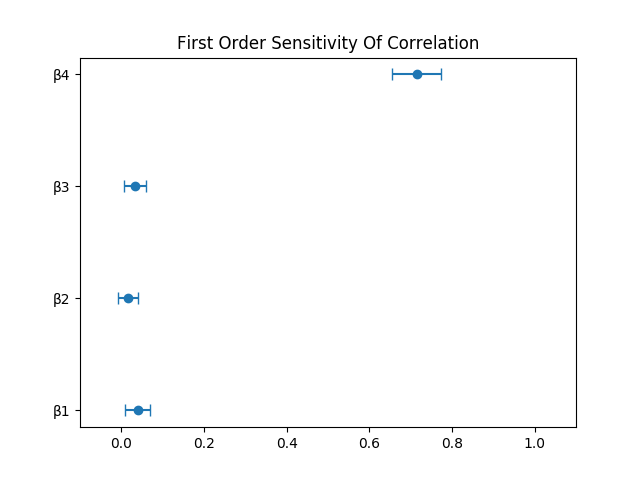
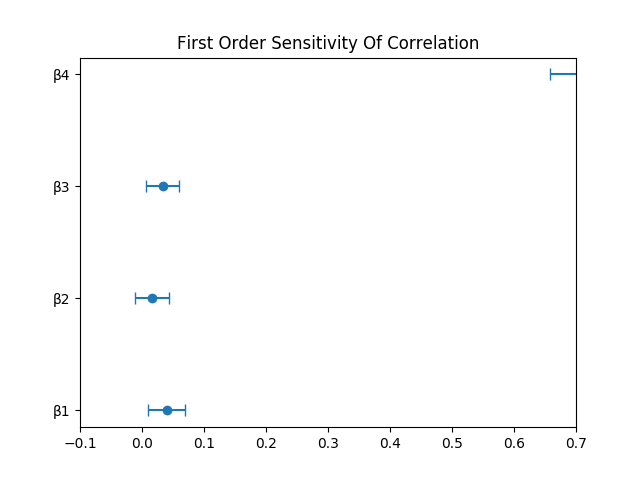
images

diff --git a/sensitivity_analysis.py b/sensitivity_analysis.py
@@ -213,7 +213,7 @@ def display_sobol_results(results, parameters=PARAMETERS,
             ax.set_yticklabels(_names)
             plt.title("{} order sensitivity of {}".format(
                 order, comparison_method).title().replace("_", " "))
-            ax.set_xlim([-0.1, 1.1])
+            ax.set_xlim([-0.1, 0.7])
 
             plt.errorbar(_sensitivity,
                          range(num_params - 1) if FIXED_N else range(num_params),
